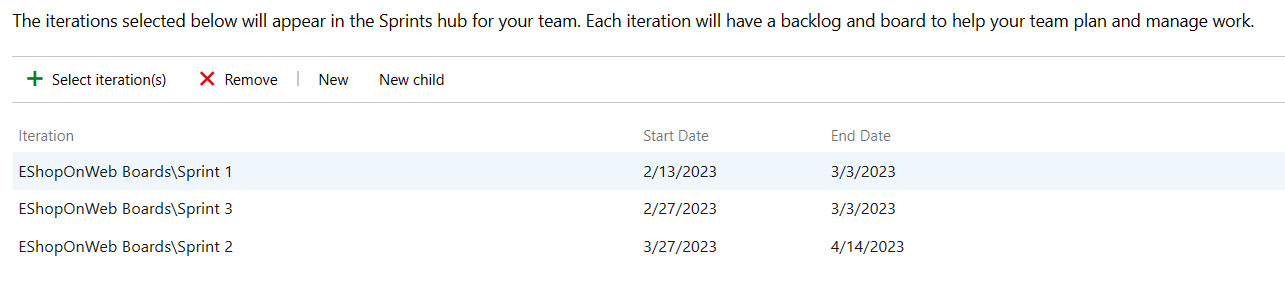
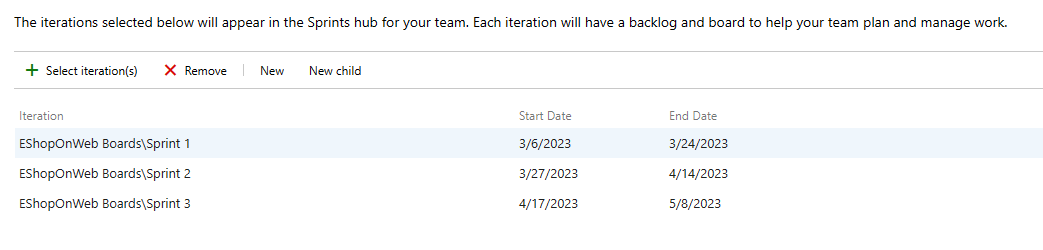
updating the 3-week sprint timings + explanation + screenshot

diff --git a/Instructions/Labs/AZ400_M01_L01_Agile_Planning_and_Portfolio_Management_with_Azure_Boards.md b/Instructions/Labs/AZ400_M01_L01_Agile_Planning_and_Portfolio_Management_with_Azure_Boards.md
@@ -92,9 +92,9 @@ Each new project is configured with a default team, which name matches the proje
 
  ![In the "interations" tab, click on "Edit"](images/m1/EShop-WEB-edit_iteration_v1.png)
 
-    > **Note**: Specify the Start Date as the first work day of last week, and specify Friday in 3 weeks from the Start Date as the End Date. This follows the best practice of having 3-week Sprints.
+    > **Note**: Specify the Start Date as the first work day of last week, and count 3 full work weeks for each sprint. For example, if March 6 is the first work day of the sprint, it goes until March 24th. Sprint 2 starts on March 27, which is 3 weeks out from March 6.
 
-1. Repeat the previous step to add **Sprint 2** and **Sprint 3**. The second sprint is our current iteration, reflecting the working days of the current week, and the third is reflecting the dates of next week.
+1. Repeat the previous step to add **Sprint 2** and **Sprint 3**. You could say that we are currently in the 2nd week of the first sprint.
 
     ![Do the same for Sprint 2 and 3, make sure they are created for "EShop-Web" team](images/m1/EShop-WEB-3sprints_v1.png)
 
